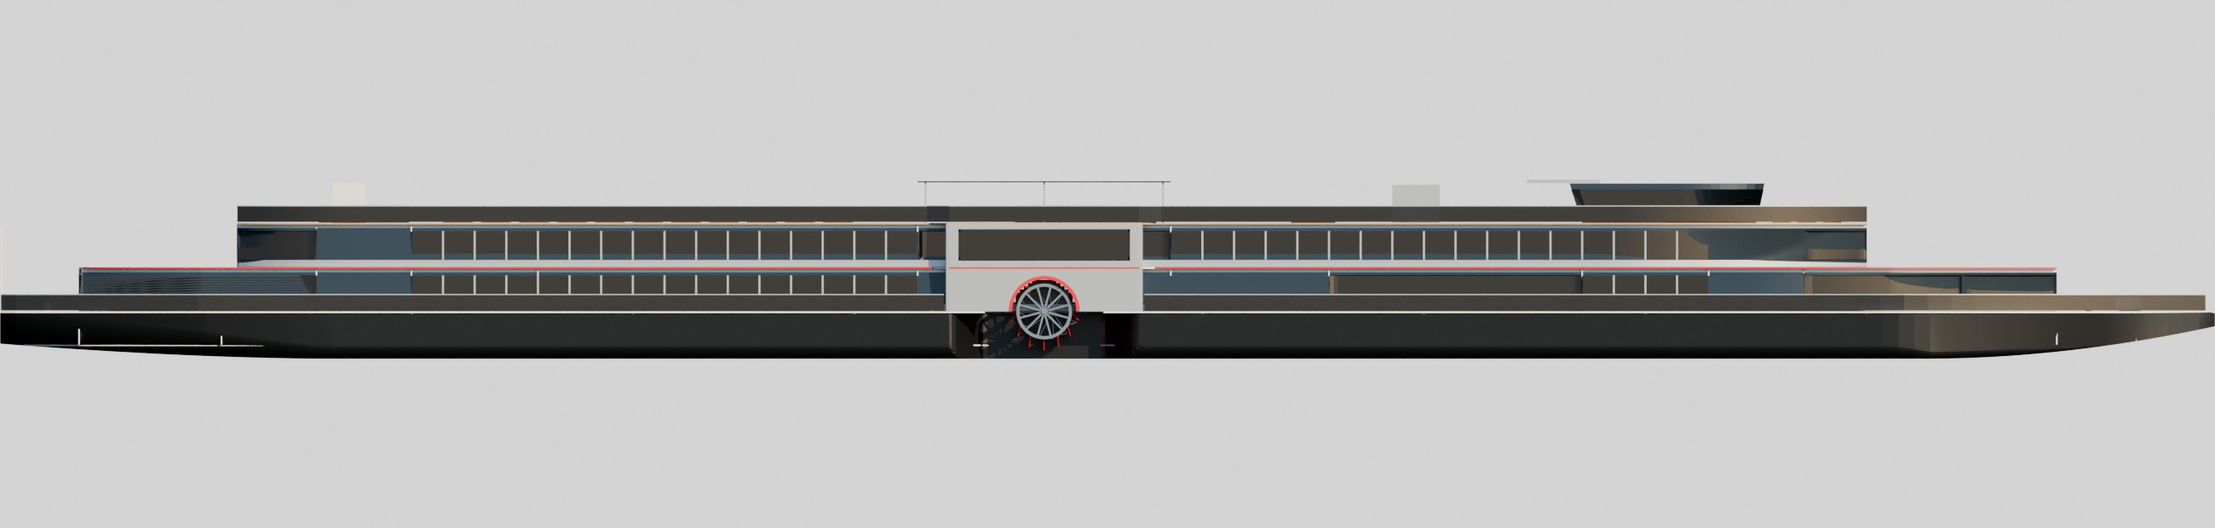
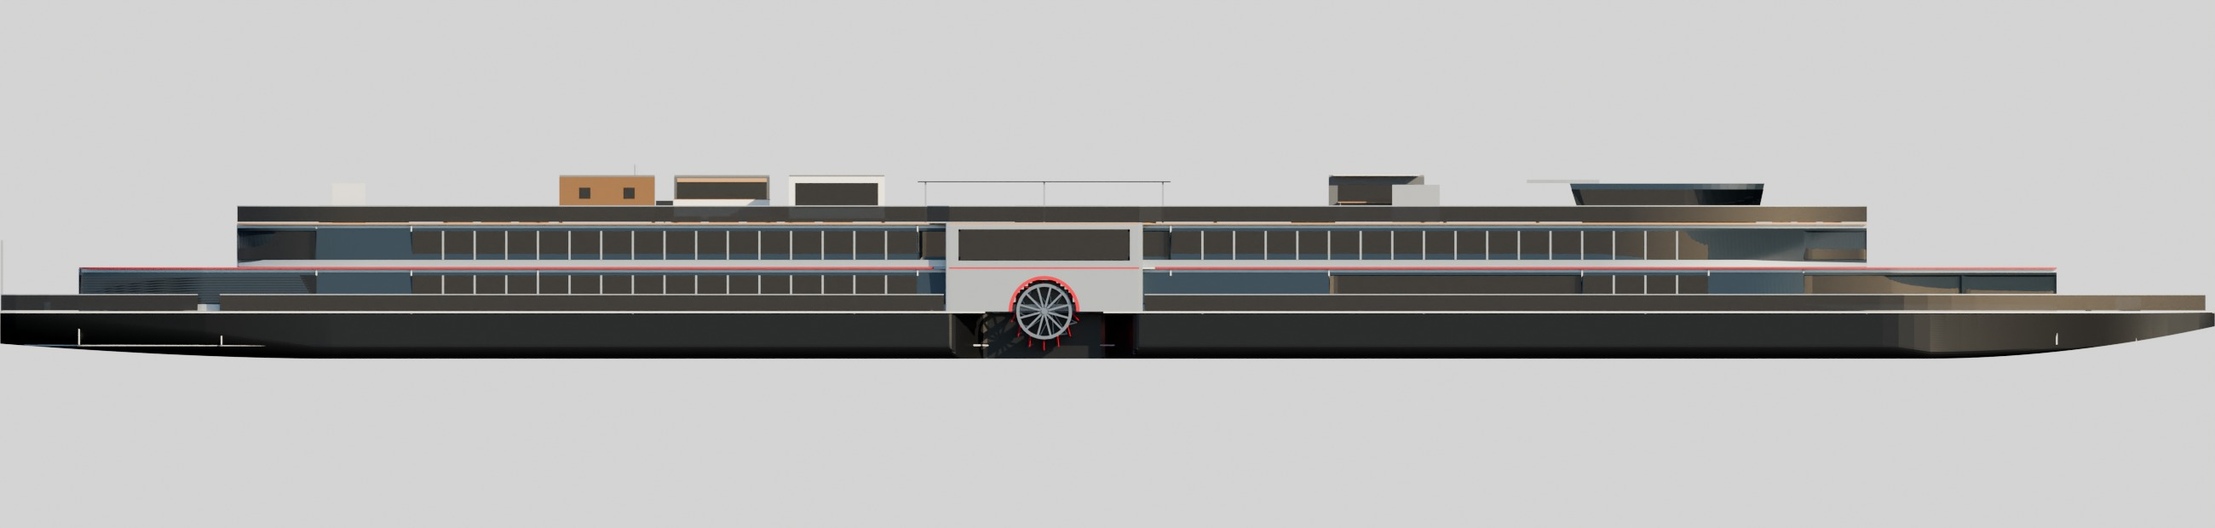
README для команды, виды с модулями и у причала, актуализация документов
- README: первый час для всех, что должен знать каждый, кому что смотреть
  первым делом (по ролям плана), что открыто по матрице с владельцами,
  где картинки для презентации, правила
- виды 01…08 с модулями на солнечной палубе; у причала 10…12;
  взрыв-схема судна с фундаментами и модулями; аудит 0 и 0
- лист проекта: вид у причала вместо ОР-05, интерьеры в левой колонке,
  рубка стационарная, ссылка на узел-фундамент; шрифт DejaVu вне Windows
- концепция: узел КД — фундамент-замок с 22.09, ось плицы — проработка
- CLAUDE.md: состояние на вечер 22.09; docs/команда/README: крепление Глеба
  стало узлом КД
- сверка: строки матрицы о записке считают дыры по самой записке (13)
- чертежи_dwg: КД узла в CAD/DWG/узел; взрыв-схема — clip_end до горизонта

Claude-Session: https://claude.ai/code/session_017i8ywbP7wsQ3im618Sz9r4

Changed region(s): [[0.2492, 0.3065, 0.405, 0.3984], [0.5919, 0.3065, 0.6542, 0.3984]]

diff --git a/scripts/чертежи_dwg.py b/scripts/чертежи_dwg.py
@@ -1,7 +1,7 @@
 # -*- coding: utf-8 -*-
 """Чертежи ОР в DWG: пакетная конвертация DXF → DWG через AutoCAD Core Console.
 
-    python scripts/чертежи_dwg.py            # все CAD/ВГ-2026_ОР-*.dxf → CAD/DWG/*.dwg
+    python scripts/чертежи_dwg.py            # ОР, РТ, МР и КД узла ВГ-2026.46.00 → CAD/DWG/{,расчёты,модули,узел}
     python scripts/чертежи_dwg.py --все      # и узел ВГ-2026_31_00_СБ тоже
 
 Свободных библиотек, пишущих DWG, нет; AutoCAD 2023 на машине есть, а с ним —
@@ -55,10 +55,11 @@ def main(все=False):
         print("нет AutoCAD Core Console:", ACC); return 1
     os.makedirs(OUT, exist_ok=True)
     маска = "*.dxf" if все else "ВГ-2026_ОР-*.dxf"
-    # листы ОР — в CAD/DWG; листы РТ — в CAD/DWG/расчёты; листы МР (модульное решение) — в CAD/DWG/модули
+    # листы ОР — в CAD/DWG; листы РТ — в CAD/DWG/расчёты; листы МР (модульное решение) — в CAD/DWG/модули;
+    # КД узла ВГ-2026.46.00 — в CAD/DWG/узел
     задания = [(dxf, OUT) for dxf in sorted(glob.glob(os.path.join(SRC, маска)))]
-    задания += [(dxf, os.path.join(OUT, "расчёты")) for dxf in sorted(glob.glob(os.path.join(SRC, "расчёты", "*.dxf")))]
-    задания += [(dxf, os.path.join(OUT, "модули")) for dxf in sorted(glob.glob(os.path.join(SRC, "модули", "*.dxf")))]
+    for папка in ("расчёты", "модули", "узел"):
+        задания += [(dxf, os.path.join(OUT, папка)) for dxf in sorted(glob.glob(os.path.join(SRC, папка, "*.dxf")))]
     ошибок = 0
     for dxf, out_dir in задания:
         dwg = os.path.join(out_dir, os.path.splitext(os.path.basename(dxf))[0] + ".dwg")

diff --git a/scripts/сверка_требований_КЗ.py b/scripts/сверка_требований_КЗ.py
@@ -181,8 +181,24 @@ def состояние_записки():
         return None
     текст = io.open(ЗАПИСКА, encoding="utf-8").read()
     блоки = re.findall(r"(?m)^## (.+)$", текст)
+    # где дыры: номер ближайшего заголовка над каждой заглушкой
+    где, заголовок = [], ""
+    for стр in текст.splitlines():
+        m = re.match(r"^#{2,4} (\d+(?:\.\d+)*)", стр)
+        if m:
+            заголовок = m.group(1)
+        elif стр.strip() == "<!-- ДЫРА -->":
+            где.append(заголовок)
     return dict(есть=True, блоков=len(блоки), дыр=текст.count("<!-- ДЫРА -->"),
-                знаков=len(текст), блоки=блоки)
+                знаков=len(текст), блоки=блоки, где=где)
+
+
+# строки матрицы о записке — по её живому состоянию, а не числом в тексте
+_з = состояние_записки()
+if _з:
+    _где = ", ".join(_з["где"])
+    ПОКРЫТИЕ[78] = ("частично", "библиотеки связаны, сводка и концепция сходятся; в записке %d незаполненных мест: %s" % (_з["дыр"], _где))
+    ПОКРЫТИЕ[266] = ("частично", "десять блоков КЗ и приложение А; %d незаполненных мест: %s" % (_з["дыр"], _где))
 
 
 def отчёт(всё=False):

diff --git a/scripts/blender_взрыв.py b/scripts/blender_взрыв.py
@@ -94,6 +94,7 @@ def рендер(samples=96, res=(2400, 1500), cycles=False):
     look = Vector((62.0, 0.0, 13.0)) - cam.location
     cam.rotation_euler = look.to_track_quat("-Z", "Y").to_euler()
     cam.data.lens = 38
+    cam.data.clip_end = 80000.0       # вода до горизонта: при коротком clip_end под горизонтом тёмная полоса
     r = sc.render
     было_r = (r.resolution_x, r.resolution_y, r.filepath, r.engine)
     r.resolution_x, r.resolution_y = res

diff --git a/README.md b/README.md
@@ -5,87 +5,146 @@
 внешность своя, современная: чёрный корпус, светлая лента главной палубы,
 красная линия, графитовый ярус кают.
 
-Все числа проекта живут в параметрических библиотеках `src/lib/`, вся
-графика и документы собираются скриптами из `scripts/`. Если число
-встречается в записке или на плане — оно посчитано, не набрано.
+**Главное правило репозитория:** все числа проекта живут в параметрических
+библиотеках `src/lib/`, вся графика и документы собираются скриптами из
+`scripts/`. Если число встречается в записке или на плане — оно посчитано,
+не набрано. Нашли расхождение между своим документом и библиотекой — права
+библиотека; нужна правка — говорите Максу, а не правьте сгенерированный файл.
 
-- **Что за судно и почему оно такое** — [`docs/проект/концепция.md`](docs/проект/концепция.md)
-- **Что сделано и что впереди** — [`docs/сводка_состояние.md`](docs/сводка_состояние.md) (генерируется)
-- **Как работать с репозиторием** — [`CLAUDE.md`](CLAUDE.md)
+![Порт приписки: смена модуля краном, сход по трапу и аппарели](renders/горизонт_2026/виды/10_у_причала.jpg)
 
-## Что за судно
+---
+
+## 1. Первый час — всем, по порядку
+
+| # | Что открыть | Зачем | Время |
+|---|---|---|---|
+| 1 | [`renders/горизонт_2026/лист_проекта_горизонт.png`](renders/горизонт_2026/лист_проекта_горизонт.png), папка [`renders/горизонт_2026/виды/`](renders/горизонт_2026/виды/) | как судно выглядит: общий вид, борт, солнечная палуба с модулями, у причала | 5 мин |
+| 2 | этот README, разделы 2 и 3 | что должен знать каждый и что смотреть именно вам | 10 мин |
+| 3 | [`docs/проект/концепция.md`](docs/проект/концепция.md) | почему судно такое: каждое решение с причиной — это ответы на вопросы жюри | 15 мин |
+| 4 | [`docs/сводка_состояние.md`](docs/сводка_состояние.md) | что закрыто по КЗ (15 требований) и по матрице оценки, что открыто по строкам — генерируется | 10 мин |
+| 5 | [`docs/проект/записка.md`](docs/проект/записка.md) — оглавление и свой раздел | пояснительная записка по десяти блокам КЗ; незаполненные места помечены **НЕ ЗАПОЛНЕНО** | 10 мин |
+| 6 | [`docs/задание/KZ_UZhTs_OSK_2026.md`](docs/задание/KZ_UZhTs_OSK_2026.md) и матрица `docs/задание/Zony_otvetsvennosti_2026_UZhTs.xlsx` | само задание и за что дают баллы | 10 мин |
+| 7 | [`docs/план/План_работы_команды_УЖЦ_2026.md`](docs/план/План_работы_команды_УЖЦ_2026.md) | кто за что отвечает, гейты и синки | 5 мин |
+
+## 2. Что должен знать каждый
 
 | Характеристика | Значение |
 |---|---|
 | Длина × ширина корпуса | **140,0 × 16,5 м**; ширина задана маршрутом, длина — компоновкой |
 | Габаритная ширина с колёсами | 16,0 м — колёса утоплены в ниши |
-| Высота борта / осадка | 3,00 м / **1,26 м** при 2377 т, дифферент 0,11 м на корму (КЗ: эксплуатация на глубине 1,5 м — 6,5 км/ч по мели) |
-| Габаритная высота от ВЛ | 9,9 м, рубка стационарная; самый низкий мост маршрута 13,3 м (Затонские мосты, Уфа), над солнечной палубой место под модульные номера |
+| Высота борта / осадка | 3,00 м / **1,26 м** при 2377 т (расчётная 1,30); КЗ: эксплуатация на глубине 1,5 м — 6,5 км/ч по мели |
+| Габаритная высота от ВЛ | 9,9 м, рубка стационарная; самый низкий мост маршрута 13,3 м (Затонские мосты, Уфа) |
 | Палубы | второе дно · трюм (нежилой, 2,1 м) · главная · средняя · солнечная (открытая) |
-| Пассажиры | **208 мест в 64 каютах** четырёх категорий, 12 мест М4 |
-| Экипаж | 48 |
+| Пассажиры / экипаж | **208 мест в 64 каютах** четырёх категорий, 12 мест М4 / 48 человек |
 | Движитель | два гребных колеса Ø4,90 м на миделе, 12 шарнирных плиц, механизм Моргана |
-| Энергетика | гибрид: 3 ГДГ по 600 кВт на **метаноле**, батарея 600 кВт·ч, берег, солнце |
-| Мощность на ход | 500 кВт на оба колеса при 17,5 км/ч; на глубине 1,5 м — 6,5 км/ч с учётом просадки |
-| Автономность | 15 суток |
-| Автомобили | 4 места класса «Б» до 3,5 т, кормовая аппарель |
-| Солнечная палуба | полезная площадь **1084 м²** из 1307 брутто; настил 103 × 13,3 м, нагрузка 5,0 кПа распределённо, до 16 модульных номеров (69 т) в расчётной осадке (`docs/проект/солнечная_палуба_нагрузка.md`); модульное решение — 18 слотов под контейнеры 20' HC на 72 фундаментах twistlock, шесть тем круизов до 60 т (`docs/проект/модульное_решение.md`, листы `CAD/модули/ВГ-2026_МР-01…03`) |
-| Управление | два балансирных руля, носовой водомёт 250 кВт, разнотяг колёс; автономное управление |
-| Класс, маршрут | РРР «О 2,0»; кольцо Самара — Казань — Уфа — Самара по Волге, Каме и Белой, 15 дней, 2606 км, мосты от 13,3 м (`docs/проект/маршрут.geojson`; карты `схемы/04_маршрут.png` на спутнике и `04а_маршрут_карта.png` на Яндекс Картах с мостами, шлюзами, расписанием и легендой) |
+| Энергетика | гибрид: 3 ГДГ по 600 кВт на **метаноле**, батарея 600 кВт·ч, берег, солнце; автономность 15 суток |
+| Автомобили | 4 места класса «Б» до 3,5 т: гараж на главной палубе, кормовая аппарель 9 × 3,6 м |
+| Сервисы сверх ресторанов | пять: театр-лаунж, спа и фитнес, детский клуб, панорамный салон, галереи к колёсам |
+| Маршрут | кольцо Самара — Казань — Уфа — Самара по Волге, Каме и Белой, 15 дней, 2606 км; класс РРР «О 2,0» |
+| Солнечная палуба | 18 слотов под контейнеры 20' HC на **72 фундаментах-замках**, шесть тем «трансформера» до 60 т (запас по заданию Глеба 85 т); смена темы — в Самаре краном порта |
+| **Узел КД** | **литой фундамент-замок модуля ВГ-2026.46.00** — решение команды 22.09.2026 |
 
-## Что определило проект
+Решения, которые нельзя перепутать на защите:
 
-**Две жилые палубы.** Под главной палубой 2,1 м — только цистерны и
-механизмы. Выше солнечной палубы — 0,9 м до габарита по мостам. Как у
-прототипа.
+- **Узел для КД сменён 22.09.2026.** Раньше была ось плицы гребного колеса
+  с кривошипом (в плане команды §7 ещё она). Теперь узел — литой
+  фундамент-замок для крепления модулей солнечной палубы: он же по заданию
+  Глеба. Ось плицы осталась проработкой колеса (`docs/проект/узел_ось_плицы.md`),
+  в КД не идёт.
+- **Фундамент литой, литейка своя**: корпус 20ГЛ литьём в форму из ХТС,
+  конус-замок 40Х, рычаг 09Г2С, четыре болта М24 А4-80 через изолирующие
+  втулки на подкладной лист АМг5. Нагрузки — от качки **этого** судна
+  (период и крен — из теории корабля), а не из старого проекта.
+- **Осадка:** расчётная 1,30, фактическая по нагрузке масс 1,26; узел
+  считан на худший период качки в диапазоне осадок 1,20…1,30.
+- **Метанол, а не СПГ:** танк СПГ не встаёт ни в трюм, ни под мосты;
+  метанол — в цистернах второго дна, бункеровка автоцистерной на любом причале.
+- **Смена модуля у причала** (`gorizont_berth`): судно лагом левым бортом,
+  портальный кран 16 т достаёт дальний ряд на вылете 20,3 м; трап и
+  аппарель не круче 0,08 — проходимы для кресла-коляски.
 
-**Колёса на миделе, над ними атриум.** Потеря плавучести в нишах даёт
-просадку без дифферента, корма свободна под аппарель, а работающее
-колесо видно из атриума через витражи кожухов. Ниши — от киля до палубы,
-с обтекаемыми торцами.
+## 3. Кому что смотреть первым делом
 
-**Метанол.** Танк СПГ типа C не встаёт ни в трюм, ни под габарит на
-солнечной палубе. Метанол — в цистернах второго дна с коффердамами.
+Роли — по плану команды. «Открыто» — строки матрицы, которые на 22.09 не
+закрыты; живой список — `docs/сводка_состояние.md`, раздел 4.
 
-**Фасад из компоновки.** Тип поверхности борта задаёт то, что за ней:
-общественные помещения — панели остекления, каюты — ряд окон, гараж —
-жалюзи. Передвинул ресторан — уехала панель.
+| Кто | Роль по плану | Открыть первым | За вами открыто |
+|---|---|---|---|
+| **Владимир** | докладчик, чек-лист КЗ (C4) | `docs/сводка_состояние.md` §1 — все 15 требований КЗ сходятся, у каждого место; `python scripts/сверка_требований_КЗ.py` — чек-лист «требование → где закрыто»; `концепция.md` — ответы на «почему»; лист проекта и `виды/` | творческое задание — 5 мемов к 24.09 (2 балла, с Андреем); прогон регламента |
+| **Маша** | интеграция, ПЗ, презентация, персонал, риски | `docs/проект/записка.md` целиком — она сводит; разделы 5 и 8; `docs/проект/персонал_и_дорожная_карта.md`; схемы `02_дорожная_карта.png`, `03_оргструктура.png`; `docs/команда/README.md` — что из ваших файлов встроено | записка 5.3…5.5 (подбор, оплата, обучение — 2,5); подтвердить оценки и мероприятия реестра рисков (3,5 частично); кооперация по судну (1,5); презентация (3,5); все разделы и вёрстка ПЗ в А4 (2); сквозная проверка «вход → выход» (2) |
+| **Лена** | финмодель | записка раздел 6 (6.1…6.6 пусты — ваши); входы для затрат: трудоёмкость и численность — `персонал_и_дорожная_карта.md`; спецификация узла — `renders/горизонт_2026/чертежи/46_спецификация_лист1…2.png`; мощности, оборудование и программа выпуска узла — `docs/проект/узел_фундамент_twistlock.md` §7…10; нагрузка масс судна — `docs/проект/теория_корабля.md`, А.2 | затраты, себестоимость, цена, выручка, точка безубыточности, окупаемость, NPV/IRR, схема финансирования — около 19 баллов; ставки для `gorizont_build.затраты_на_персонал` |
+| **Иван** | рынок, маршрут | записка 1.1 (1.1.2…1.1.5 пусты), 1.1.7 — сегменты уже посчитаны (`gorizont_market`); карта маршрута `схемы/04а_маршрут_карта.png`; замечания к «Маршрутам» — `gorizont_route.ЗАМЕЧАНИЯ` и концепция §8 | объём рынка, объём продаж, конкуренты, маркетинговая стратегия, цены и сеть для ППО — 5,5 балла; стоимость единицы на рынке — с Леной |
+| **Глеб** | технология, материалы; модули солнечной палубы | `docs/проект/узел_фундамент_twistlock.md` — ваш «Чертёж крепления» стал узлом КД: материалы §3, литьё и подготовка формы §5, оснастка §6, мощности §7, планировка §9; карты ЕСТД `renders/горизонт_2026/чертежи/46_МК_*, 46_ОК*, 46_КЭ*, 46_ККИ*`; модульное решение — `docs/проект/модульное_решение.md`, листы `CAD/модули/МР-01…03`; кадр `виды/11_смена_модуля.jpg` | сверить принятое: оборудование литейки, загрузку цехов, планировку (2 балла частично); прислать остальные файлы «пачки» креплений — в репозитории только `Чертёж крепления.jpg` |
+| **Андрей** | прочность, планировка участка | узел §4 — расчёт по качке судна, 44 проверки; теория корабля `docs/проект/теория_корабля.md` (остойчивость А.3, прочность А.7), листы `CAD/расчёты/РТ-01…09`; планировка `схемы/08_узел_участок.png` | творческое задание (с Владимиром); планировку сверить с цехами верфи |
+| **Алексей** | КД узла, работоспособность идеи | СБ и детали: `CAD/узел/ВГ-2026_46_*.dxf` (растр — `renders/горизонт_2026/чертежи_dxf/ВГ-2026_46_*.png`); 3D — `CAD/STEP/VG-2026_46_*.step`; спецификация; рендеры `узел/46_01…03`; эксплуатация — записка раздел 9 | DWG листов узла и МР-01 пересобрать на машине с AutoCAD: `python scripts/чертежи_dwg.py`; просмотреть КД глазами конструктора |
+| **Макс** | 3D, визуализация | `CLAUDE.md` — как устроен репозиторий; `blender/gorizont.blend`; `scripts/blender_*` | взрыв-схема и лист проекта — пересобираются из скриптов; презентационные кадры для Маши |
 
-## Где что лежит
+## 4. Что открыто (43,5 балла из 95 по документам, на 22.09)
+
+| Блок | Баллов | Кто | Что нужно |
+|---|---|---|---|
+| Экономика и затраты (A, B6) | ≈ 19 | Лена (+ Иван по цене) | финмодель целиком; входы уже есть в библиотеках (см. раздел 3) |
+| Персонал: подбор, оплата, обучение (B6) | 2,5 | Маша | записка 5.3…5.5 |
+| Риски и кооперация (B2) | 5 частично | Маша | подтвердить оценки реестра рисков; кооперация по судну |
+| Рынок (B4) | 5,5 | Иван | записка 1.1.2…1.1.5 |
+| Презентация и ПЗ (C1, C2) | 5,5 | Маша | презентация; вёрстка записки в А4 |
+| Сквозная связность (B1) | 2 частично | Маша | «вход → выход» после заполнения записки |
+| Творческое задание (A) | 2 | Андрей, Владимир | мемы к 24.09 |
+| Мощности и планировка узла (B5) | 2 частично | Глеб, Андрей | сверить принятое оборудование и загрузку с данными верфи |
+
+Закрыто 51,5 балла: концепция, дизайн-проект, КД узла, технология и
+производство узла, теория корабля, чертежи ОР, модель и визуализация,
+требования КЗ (C4).
+
+## 5. Где что лежит
 
 ```
-src/lib/                 параметрические библиотеки (см. CLAUDE.md)
-scripts/                 генераторы: модель, планы, схемы, сверки
 docs/задание/            КЗ ред. 2 и матрица оценки — не менять
-docs/план/               план и Гант команды
-docs/проект/             концепция, записка, разбор перехода на ПКС-180
-renders/горизонт_2026/   виды, планы, схемы, расчёты, чертежи, узел — генерируется
-CAD/                     ОР-01…08 в DXF и DWG (CAD/DWG/); расчёты/ и DWG/расчёты/ — теория корабля в DXF/DWG; узел: STEP/STL
-blender/gorizont.blend   модель; собирается с нуля blender_судно.собрать()
+docs/план/               план и Гант команды — не менять без просьбы
+docs/команда/            ваши файлы как получены (байт в байт); что из них встроено — docs/команда/README.md
+docs/проект/             концепция, записка, узел КД, модульное решение, теория корабля, персонал и дорожная карта
+docs/сводка_состояние.md состояние по КЗ и матрице — генерируется scripts/сводка.py
+src/lib/                 параметрические библиотеки: здесь живут все числа (карта — CLAUDE.md)
+scripts/                 генераторы: модель, планы, схемы, чертежи, записки, сверки
+CAD/                     ОР-01…08, РТ-01…09, МР-01…03, КД узла в DXF; DWG/ — те же в DWG; STEP/, GLB/ — 3D узла
+renders/горизонт_2026/   виды, планы, схемы, расчёты, чертежи, узел, каюты, облик — генерируется
+blender/gorizont.blend   модель судна с солнечной палубой; собирается с нуля blender_судно.собрать()
 ```
 
-## Проверки
+Картинки для презентации:
+
+| Что | Где |
+|---|---|
+| судно целиком, борт, корма, нос, вид сверху | `renders/горизонт_2026/виды/01…08_*.jpg` |
+| у причала, смена модуля, сход на берег | `renders/горизонт_2026/виды/10_у_причала.jpg`, `11_смена_модуля.jpg`, `12_сход_на_берег.jpg` |
+| взрыв-схема судна | `renders/горизонт_2026/виды/09_взрыв_схема.jpg` |
+| узел: сборка, взрыв-схема, отливка со стержнем | `renders/горизонт_2026/узел/46_01…03_*.png` |
+| интерьеры кают | `renders/горизонт_2026/каюты/00_лист_кают.png` |
+| планы палуб | `renders/горизонт_2026/планы/` |
+| маршрут, дорожная карта, оргструктура, модули, производство узла | `renders/горизонт_2026/схемы/` |
+| чертежи в растре | `renders/горизонт_2026/чертежи_dxf/`, `…/чертежи/` |
+
+## 6. Как пересобрать и проверить
 
 ```bash
-cd src && python -m lib.gorizont_ga         # вместимость и проверки компоновки
-python scripts/планы_кают.py                 # эргономика кают по СанПиН 2.5.2-703-98
-python scripts/сверка_требований_КЗ.py       # требования КЗ и матрица оценки
-python scripts/сводка.py                     # docs/сводка_состояние.md
+pip install -r requirements.txt
+cd src && python -m lib.gorizont_ga && cd ..      # вместимость и проверки компоновки
+python scripts/сверка_требований_КЗ.py             # требования КЗ и матрица оценки
+python scripts/сводка.py                           # docs/сводка_состояние.md
+python scripts/записка.py                          # docs/проект/записка.md
+python scripts/записка_фундамента.py               # docs/проект/узел_фундамент_twistlock.md
 ```
 
-## Состояние на 22 сентября 2026
+Остальные проверки и сборка модели в Blender — `CLAUDE.md`.
 
-Закрыто: концепция и компоновка всех уровней; облик v2; модель в Blender с
-наполнением (переборки с проёмами, каюты с мебелью, общественные помещения,
-трапы с колодцами, лифты, трюм, навес модулей, фонарь атриума) — 1501 объект,
-0 пересечений, 0 щелей; теория корабля по методике СПбГМТУ (теоретический чертёж с нишами
-колёс, таблица ординат, кривые элементов, строевая и нагрузка масс, посадка,
-остойчивость, непотопляемость, продольная прочность, ходкость) —
-`docs/проект/теория_корабля.md`; чертежи общего расположения ОР-01…08 в DXF и DWG (`CAD/DWG/`);
-узел КД «ось плицы с кривошипом» — сборочный чертёж, STEP/STL, спецификация,
-расчёт на прочность и материалы (`docs/проект/узел_ось_плицы.md`); модельный
-ряд; интерьеры шести типов кают (`renders/горизонт_2026/каюты/`); персонал и
-дорожная карта постройки — трудоёмкость по методике Минпромторга № 958, численность
-по этапам, оргструктура верфи, карта с вехами (`docs/проект/персонал_и_дорожная_карта.md`).
-Открыто: техпроцесс и оснастка узла, маркетинг, экономика, подбор/оплата/обучение
-персонала, риски.
+## 7. Правила для всех
+
+1. Числа — только из библиотек или сгенерированных документов; руками не переписывать.
+2. Свои файлы — в `docs/команда/` как есть; Макс встроит их в библиотеки и
+   допишет строку в `docs/команда/README.md`.
+3. Сгенерированные файлы (`записка.md`, `сводка_состояние.md`, `теория_корабля.md`,
+   `узел_фундамент_twistlock.md`, всё в `renders/`) руками не правятся:
+   правка пропадёт при следующей сборке. Текст для записки — присылать,
+   он встанет в скрипт.
+4. `docs/задание/` не менять никогда; `docs/план/` — только по просьбе.

diff --git a/docs/сводка_состояние.md b/docs/сводка_состояние.md
@@ -15,9 +15,11 @@
 | 5а. Модель: оболочка по облику v2 — корпус, палубы, ярусы, портал, колёса, фальшборты | **сделано** | blender_судно.собрать(): 0 пересечений, 0 щелей, 16,50 м |
 | 5б. Модель: наполнение — переборки, каюты с мебелью, трапы, лифты, трюм по gorizont.ТРЮМ | **сделано** | blender_помещения.py: 1219 объектов, 0 пересечений, 0 щелей |
 | 5в. Модель: общественные помещения, проёмы переборок, колодцы трапов, навес модулей, фонарь атриума | **сделано** | src/lib/gorizont_public.py — один источник для планов, DXF и 3D; 6 проверок, в т. ч. путь эвакуации 1,2 м |
+| 5г. Модель: солнечная палуба — 72 фундамента-замка ВГ-2026.46.00 из 3D узла (закрыто под модулем, открыто на свободном слоте), модули темы «президентская» с отделкой по типу | **сделано** | blender_модули.py, входит в blender_судно.собрать(тема=…); 0 пересечений, 0 щелей |
+| 5д. Стоянка у причала порта приписки: стенка, пандус под аппарель, трап, швартовы, портальный кран 16 т с модулем на крюке; кадры 10…12 | **сделано** | gorizont_berth (9 проверок: уклоны трапа и аппарели, вылет и груз крана, пронос над соседями), blender_причал.py |
 | 6. Узел КД (решение команды 22.09.2026) — литой фундамент-замок модуля ВГ-2026.46.00: СБ, корпус, 3D, спецификация, расчёт по качке судна, материалы; прежний узел — ось плицы — остаётся как проработка колеса | **сделано** | gorizont_twistlock, CAD/узел/, CAD/STEP/VG-2026_46_*.step, docs/проект/узел_фундамент_twistlock.md |
 | 7. Технология и производство узла: литьё ХТС в своей литейке (форма, стержень, прибыль, литники), маршрутные и операционные карты, оснастка, мощности, кооперация, планировка, сроки освоения | **сделано** | CAD/узел/ВГ-2026_46_01_ЛФ, -МП, -СЯ; чертежи/46_*.png; схемы/07…10_узел_*.png; оборудование и загрузка цехов — принято, сверить |
-| 8. Пакет визуализации: виды судна, взрыв-схема, узел (виды, взрыв), интерьеры шести типов кают | **сделано** | renders/горизонт_2026/{виды,узел,каюты}/; лист интерьеров каюты/00_лист_кают.png |
+| 8. Пакет визуализации: виды судна с модулями, у причала и смена модуля, взрыв-схема, узел (сборка, взрыв, отливка со стержнем), интерьеры шести типов кают | **сделано** | renders/горизонт_2026/{виды,узел,каюты}/; лист интерьеров каюты/00_лист_кают.png |
 | 9. Теория корабля по методике СПбГМТУ: чертёж, ординаты, кривые элементов, строевая и нагрузка, остойчивость, непотопляемость, прочность, ходкость | **сделано** | docs/проект/теория_корабля.md, renders/горизонт_2026/расчёты/01…07 |
 | 10. Чертежи общего расположения ОР-01…08 в DXF и DWG (сечения по длине — ОР-08) | **сделано** | CAD/ВГ-2026_ОР-*.dxf; CAD/DWG/ из чертежи_dwg.py (AutoCAD Core Console); растр renders/горизонт_2026/чертежи_dxf/ |
 | 11. Модельный ряд: три версии на одном корпусе | **сделано** | renders/горизонт_2026/схемы/модельный_ряд.png |
@@ -168,12 +170,12 @@
 |---|---|---|
 | Модель судна (`blender/gorizont.blend`) | 1 | B5, C3 |
 | 2D-облик: борт, план, сечения (`renders/горизонт_2026/облик`) | 4 | B3, C3 |
-| Внешние виды (рендеры) (`renders/горизонт_2026/виды`) | 9 | C3 |
+| Внешние виды (рендеры) (`renders/горизонт_2026/виды`) | 15 | C3 |
 | Интерьеры шести типов кают, лист интерьеров (`renders/горизонт_2026/каюты`) | 19 | КЗ п.5, C3 |
 | Планы палуб (`renders/горизонт_2026/планы`) | 6 | КЗ п.5, B5 |
 | Схемы систем (`renders/горизонт_2026/схемы`) | 12 | B5 |
 | Чертежи на листах (`renders/горизонт_2026/чертежи`) | 15 | B5 |
-| Чертежи ОР-01…08 в DXF (`CAD`) | 64 | B5 |
+| Чертежи ОР-01…08 в DXF (`CAD`) | 67 | B5 |
 | Чертежи ОР в DWG (AutoCAD Core Console) (`CAD/DWG`) | 20 | B5 |
 | Листы РТ-01…09 теории корабля в DXF из данных (`CAD/расчёты`) | 9 | КЗ п.12, B5 |
 | То же в DWG (`CAD/DWG/расчёты`) | 9 | КЗ п.12, B5 |
@@ -182,6 +184,8 @@
 | Модульное решение солнечной палубы: слоты, фундамент, темы (`docs/проект/модульное_решение.md`) | 1 | КЗ доп. п.3 |
 | Схема модульного решения для презентации (`renders/горизонт_2026/схемы/06_модульное_решение.png`) | 1 | КЗ доп. п.3 |
 | 3D узлов в STEP (`CAD/STEP`) | 7 | B5 |
+| 3D узла ВГ-2026.46.00 в glTF для модели судна (`CAD/GLB`) | 3 | B5, C3 |
+| Узел: сборка, взрыв-схема, отливка со стержнем (`renders/горизонт_2026/узел`) | 7 | B5, C3 |
 | КД узла ВГ-2026.46.00: СБ, корпус, отливка ЛФ, плита модельная, ящик стержневой (`CAD/узел`) | 5 | B5 |
 | Узел КД: расчёт по качке, материалы, технология литья, производство (`docs/проект/узел_фундамент_twistlock.md`) | 1 | B5 |
 | Пояснительная записка (`docs/проект/записка.md`) | 1 | B1, B5 |
@@ -206,7 +210,7 @@
 
 Документами закрывается 95.0 балла из 100.0: 5.0 не зависит от нас и оценивается на площадке. **Закрыто 51.5, частично 13.5, не начато 30.0.**
 
-Записка: 12 разделов, 54219 знаков, незаполненных мест 13.
+Записка: 12 разделов, 54528 знаков, незаполненных мест 13.
 
 ### Что открыто по строкам матрицы (43.5 балла)
 
@@ -220,7 +224,7 @@
 | A | 61 | Корректность и обоснованность расчета затрат на развитие и продвижение | 1.00 | **нет** | затраты на продвижение не считаны |
 | A | 66 | Корректность и обоснованность расчета затрат на НИОКР | 1.00 | **нет** | затраты на НИОКР не считаны |
 | A | 71 | Корректность и обоснованность расчета финансовых потоков на ППО | 1.00 | **нет** | финпотоки ППО не считаны |
-| B1 | 78 | Совпадение входов и выходов по каждому блоку | 2.00 | частично | библиотеки связаны, сводка и концепция сходятся; в записке 19 незаполненных мест из 41 раздела |
+| B1 | 78 | Совпадение входов и выходов по каждому блоку | 2.00 | частично | библиотеки связаны, сводка и концепция сходятся; в записке 13 незаполненных мест: 1.1.2, 1.1.3, 1.1.4, 1.1.5, 5.3, 5.4, 5.5, 6.1, 6.2, 6.3, 6.4, 6.5, 6.6 |
 | B2 | 87 | Корректно обозначены риски проекта | 1.50 | частично | реестр из 10 рисков — gorizont_build.риски(), записка 8; оценки ПБ, подтверждение Маши |
 | B2 | 92 | (строка без названия) | 1.50 | частично | схема кооперации по узлу есть (схемы/07_узел_кооперация.png); по судну — нет |
 | B2 | 88 | Минус 0,5, если нет цифровой оценки рисков | 1.00 | частично | вероятность и ущерб 1…5, оценка — произведение (принято) |
@@ -247,6 +251,6 @@
 | B6 | 223 | Разработана система обучения и подготовки кадров | 0.75 | **нет** | системы обучения нет — Маша |
 | C1 | 251 | Логичность, структурированность представления материалов | 2.00 | **нет** | презентации нет |
 | C1 | 248 | Оформление презентации | 1.50 | **нет** | презентации нет |
-| C2 | 266 | В пояснительной записке присутствуют все разделы | 1.00 | частично | десять блоков КЗ и приложение А; 19 незаполненных мест: рынок 1.1.2…1.1.5, технология 4, персонал 5.3…5.5, экономика 6 |
+| C2 | 266 | В пояснительной записке присутствуют все разделы | 1.00 | частично | десять блоков КЗ и приложение А; 13 незаполненных мест: 1.1.2, 1.1.3, 1.1.4, 1.1.5, 5.3, 5.4, 5.5, 6.1, 6.2, 6.3, 6.4, 6.5, 6.6 |
 | C2 | 267 | Оформление пояснительной записки | 1.00 | частично | требования к оформлению в шапке; вёрстка в А4 с колонтитулами не сделана |
 

diff --git a/CLAUDE.md b/CLAUDE.md
@@ -206,28 +206,24 @@ Blender модулем; сборка, аудит и рендер на проце
 - **Запуск внешних консолей — из Python, не из Git Bash.** MSYS переписывает
   ключи вида `/i`, `/s` в пути; AutoCAD Core Console молча ждёт до таймаута.
 
-## Состояние на 22 сентября 2026
+## Состояние на 22 сентября 2026 (вечер)
 
 Закрыто: проектирование (концепция, компоновка, планы палуб и кают, колесо,
 управляемость, программа снижения массы: 2377 т, осадка 1,26 при расчётной
-1,30), облик v2, модель с наполнением (1501 объект, 0 пересечений, 0 щелей),
-теория корабля, чертежи ОР-01…08 в DXF и DWG, узел «ось плицы с кривошипом»
-(по нему команда ещё решает — не трогать), интерьеры шести типов кают с
-отделкой по классу, персонал и дорожная карта постройки (`gorizont_build`).
-Проверки библиотек — 0 замечаний: внутренние каюты 2,25 м (`gorizont.INNER_CABIN_DEPTH`),
-расписание маршрута с часами стоянок (`gorizont_route.расписание()`), оба решения 22.09.2026.
-Записка (`scripts/записка.py`) собирает все десять блоков из библиотек: 19
-заглушек — рынок 1.1.2…1.1.5, технология 4, персонал 5.3…5.5, экономика 6.
-Растр листов DXF — `чертежи_png.py` с `adjust_figure=False` и тёмными цветами
-слоёв, иначе ezdxf ужимает лист до 900 px и текст нечитаем.
-Маршрут (Самара — Казань — Уфа — Самара, редакция 2: Набережные Челны, ходовой день на Белой, мосты от 13,3 м):
-рубка стационарная; модульное решение солнечной палубы по заданию Глеба
-(`gorizont_modules`: 18 слотов под контейнеры 20' HC, 72 фундамента twistlock,
-6 тем круизов; листы МР-01…03, `docs/проект/модульное_решение.md`) — от Глеба
-ждём 3D и КД фундамента; ЦА и сегментация — `gorizont_market`.
-Матрица оценки (`docs/сводка_состояние.md`, п. 4): закрыто 37,5 балла, частично 10,5,
-не начато 47,0, ещё 5 — на площадке. Целиком закрыты B3, C3, C4; B5 — 17 из 28,5.
-Открыто: техпроцесс и оснастка узла (9 баллов), экономика и себестоимость (14,5),
-объём рынка, конкуренты, стратегия, ППО (5,5), риски и схема кооперации (5),
-подбор, оплата и обучение персонала (Маша), презентация, мемы; в записке 28
-незаполненных мест.
+1,30), облик v2, теория корабля, чертежи ОР-01…08 в DXF и DWG, интерьеры
+шести типов кают, персонал и дорожная карта постройки (`gorizont_build`),
+маршрут и ЦА. **Узел КД с 22.09 — литой фундамент-замок модуля ВГ-2026.46.00**
+(`gorizont_twistlock`: КД, 3D, расчёт по качке этого судна, литьё в своей
+литейке с оснасткой, карты ЕСТД, мощности, планировка, сроки); ось плицы —
+проработка колеса. Модель — с солнечной палубой: 72 фундамента из 3D узла
+и модули темы «президентская»; стоянка у причала (`gorizont_berth`,
+`blender_причал`), кадры 10…12; аудит модели и причала — 0 пересечений,
+0 щелей. Проверки библиотек — 0 замечаний.
+Матрица (`docs/сводка_состояние.md`, п. 4): закрыто 51,5 балла, частично 13,5,
+не начато 30,0, ещё 5 — на площадке. Открыто: экономика и затраты (≈19, Лена),
+рынок (5,5, Иван), подбор/оплата/обучение персонала, риски, кооперация по
+судну, презентация, вёрстка ПЗ (Маша), мемы (Андрей, Владимир); в записке 13
+незаполненных мест: 1.1.2…1.1.5, 5.3…5.5, 6.1…6.6. Команде — `README.md`,
+раздел «Кому что смотреть первым делом».
+Локально (AutoCAD): `python scripts/чертежи_dwg.py` — DWG листов узла
+(`CAD/DWG/узел/`) и обновлённого МР-01.

diff --git a/docs/команда/README.md b/docs/команда/README.md
@@ -10,7 +10,7 @@
 | `Raschet_chislennosti_PRIMER.docx` | Лена, Маша | 22.09.2026 | пример расчёта численности по Приказу Минпромторга № 958 на чужое судно 3283 т | методика в `src/lib/gorizont_build.трудоёмкость()`, `численность()`; считается на наше порожнее из `gorizont_hydro` |
 | `Org_struktura.docx` | Маша | 22.09.2026 | схема оргструктуры верфи (SmartArt) и справка «проектное бюро или дочерняя компания» | `gorizont_build.оргструктура()` → `renders/горизонт_2026/схемы/03_оргструктура.png`; добавлены ПБ и служба качества с РРР |
 | `UZhTs_Dorozhnaya_karta.pdf` | Маша | 22.09.2026 | дорожная карта постройки, первая редакция (MS Project, 42 задачи, 17.09.2026 — 29.09.2028) | заменена редакцией Лены; наши замечания к ней учтены там |
-| `солнечная_палуба/` | Глеб | 22.09.2026 | задание по модульным решениям (`Информаци-задание.docx`: площадка 32 × 13 м, запас 85 т, пять тем из 20-футовых контейнеров, twistlock на болтах), 3D узла крепления (`Чертёж крепления.jpg`: платик 09Г2С, палец 40Х), референсы бань, бассейна, офисов и две страницы поставщиков модулей | `src/lib/gorizont_modules.py` → листы `CAD/модули/ВГ-2026_МР-01…03`, `docs/проект/модульное_решение.md`, `схемы/06_модульное_решение.png` |
+| `солнечная_палуба/` | Глеб | 22.09.2026 | задание по модульным решениям (`Информаци-задание.docx`: площадка 32 × 13 м, запас 85 т, пять тем из 20-футовых контейнеров, twistlock на болтах), 3D узла крепления (`Чертёж крепления.jpg`: платик 09Г2С, палец 40Х), референсы бань, бассейна, офисов и две страницы поставщиков модулей | `src/lib/gorizont_modules.py` → листы `CAD/модули/ВГ-2026_МР-01…03`, `docs/проект/модульное_решение.md`, `схемы/06_модульное_решение.png`; крепление стало **узлом КД** — литой фундамент-замок ВГ-2026.46.00 (`gorizont_twistlock`, `CAD/узел/`, `docs/проект/узел_фундамент_twistlock.md`); в модели — 72 опоры и модули темы, смена модуля у причала (`виды/11_смена_модуля.jpg`) |
 | `Маршруты.docx` | маршрутная группа (Иван) | 22.09.2026 | маршрут, редакция 2: программа по дням (Набережные Челны + автобус в Елабугу, ходовой день на Белой) и таблица мостов по плечам с допустимыми высотами | `gorizont_route.ПОРТЫ`, `МОСТЫ` → `МОСТ_МИН` 13,3; замечания к файлу — `gorizont_route.ЗАМЕЧАНИЯ` и концепция §8; карта `схемы/04_маршрут.png`, `маршрут.geojson` |
 | `Дорожная_карта_Лена.pdf` | Лена | 22.09.2026 14:56 | дорожная карта постройки, вторая редакция (52 задачи, 22.09.2026 — 22.05.2030, с РКД, Регистром, МТО и закладкой киля) | заменена третьей редакцией; наши четыре замечания к ней учтены там частично |
 | `Дорожная_карта_Лена_ред3.pdf` | Лена | 22.09.2026 16:22 | третья редакция (55 задач, 968 дней, сдача 06.06.2030): поставка длинноцикловых 8.4 на 205 дней, швартовные и ходовые раздельно, утилизация через 25 лет, спуск 02.02.2029 | **база** `gorizont_build.ЛЕНА` → `02_дорожная_карта.png`; три оставшиеся нестыковки (закладка и стапель, ходовые до ледохода, акт до устранения) исправлены в датах — `checks()`, `персонал_и_дорожная_карта.md` |
